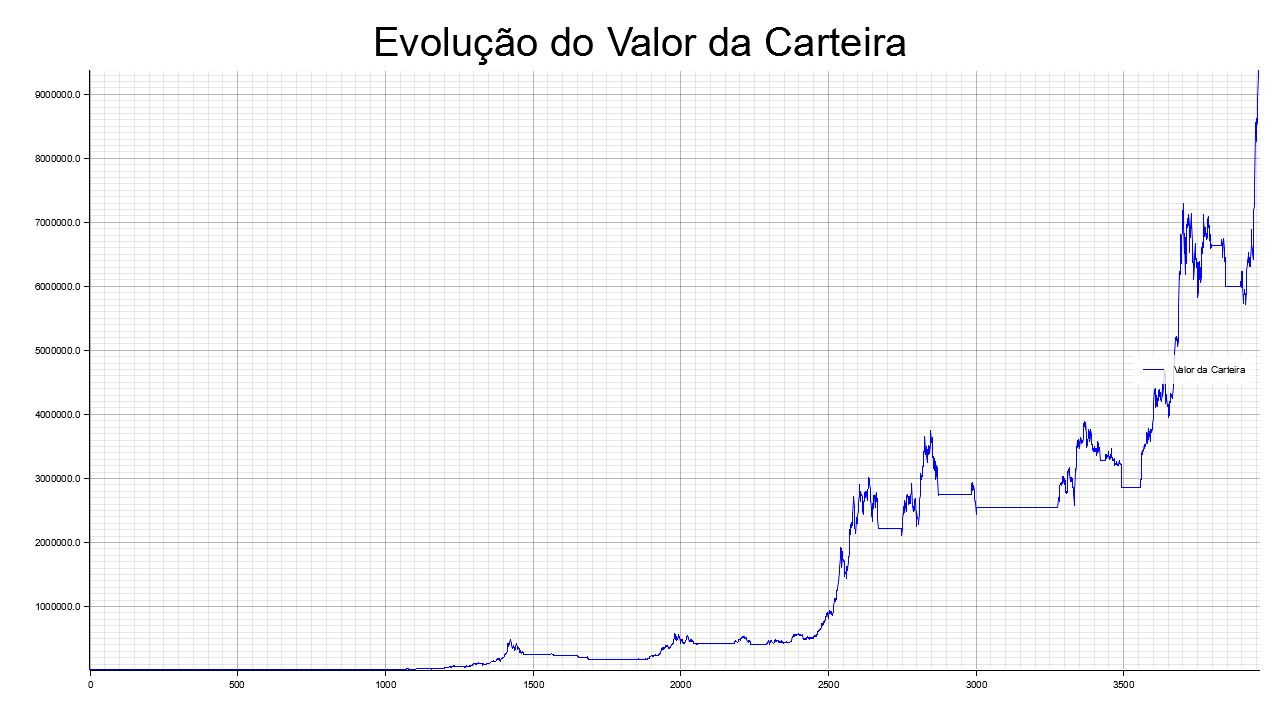
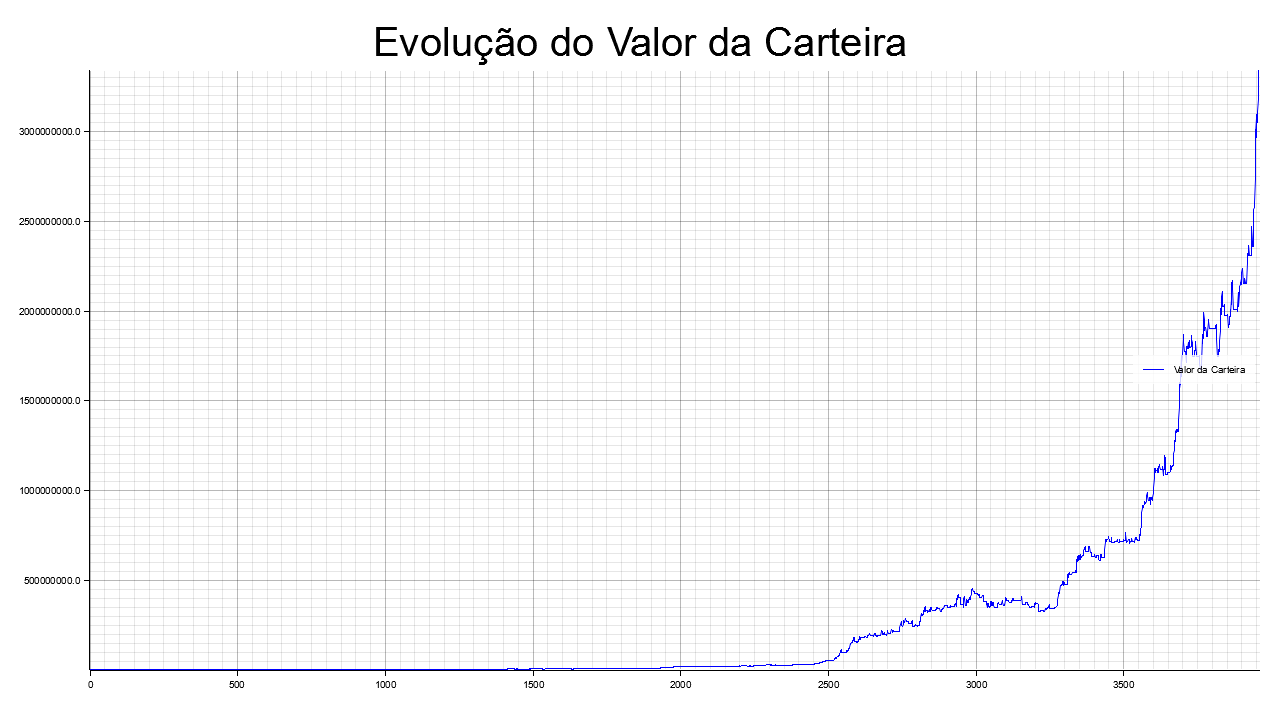
Primeira versão do código atualizado

Changed region(s): [[0.0, 0.0917, 1.0, 0.9472]]

diff --git a/src/main.rs b/src/main.rs
@@ -4,7 +4,7 @@ mod backtester;
 mod report;
 
 use data_loader::load_csv_data_from_file;
-use strategy::MovingAverageCrossover;
+use strategy::{MovingAverageCrossover, BuyAndHold, Strategy};
 use backtester::run_backtest;
 use report::{calculate_metrics, plot_portfolio_value};
 use rayon::prelude::*;
@@ -17,6 +17,15 @@ fn main() -> Result<(), Box<dyn std::error::Error>> {
     let market_data = Arc::new(load_csv_data_from_file(file_path)?);
 
     println!("Total de registros carregados: {}", market_data.len());
+
+    // Estratégia de Buy and Hold (Exemplo Adicional)
+    let buy_and_hold_strategy = BuyAndHold::new();
+    let (portfolio_bh, _) = run_backtest(&buy_and_hold_strategy, &market_data[..]);
+    let total_return_bh = (portfolio_bh.last().unwrap() - 10000.0) / 10000.0;
+    println!(
+        "\nEstratégia Buy and Hold:\nRetorno Total: {:.2}%",
+        total_return_bh * 100.0
+    );
 
     // Definir os intervalos das médias móveis
     let short_ma_range = 5..=200;
@@ -46,7 +55,7 @@ fn main() -> Result<(), Box<dyn std::error::Error>> {
     sorted_results.sort_by(|a, b| b.2.partial_cmp(&a.2).unwrap_or(Ordering::Equal));
 
     // Exibir as duas melhores combinações
-    println!("\nAs duas melhores combinações são:");
+    println!("\nAs duas melhores combinações de Moving Average Crossover são:");
     for (i, (short_ma, long_ma, total_return)) in sorted_results.iter().take(2).enumerate() {
         println!(
             "{}º: Short MA: {}, Long MA: {}, Retorno Total: {:.2}%",
@@ -80,4 +89,3 @@ fn main() -> Result<(), Box<dyn std::error::Error>> {
 
     Ok(())
 }
-

diff --git a/src/strategy/mod.rs b/src/strategy/mod.rs
@@ -2,6 +2,12 @@ pub mod indicators;
 
 use crate::data_loader::MarketData;
 
+/// Define o comportamento comum para todas as estratégias
+pub trait Strategy {
+    fn generate_signals(&self, market_data: &[MarketData]) -> Vec<Signal>;
+}
+
+/// Estratégia de Moving Average Crossover
 pub struct MovingAverageCrossover {
     pub short_window: usize,
     pub long_window: usize,
@@ -14,8 +20,11 @@ impl MovingAverageCrossover {
             long_window,
         }
     }
+}
 
-    pub fn generate_signals(&self, market_data: &[MarketData]) -> Vec<Signal> {
+/// Implementa o trait Strategy para Moving Average Crossover
+impl Strategy for MovingAverageCrossover {
+    fn generate_signals(&self, market_data: &[MarketData]) -> Vec<Signal> {
         let short_ma = indicators::moving_average(market_data, self.short_window);
         let long_ma = indicators::moving_average(market_data, self.long_window);
 
@@ -42,6 +51,26 @@ impl MovingAverageCrossover {
     }
 }
 
+/// Estratégia de Buy and Hold
+pub struct BuyAndHold;
+
+impl BuyAndHold {
+    pub fn new() -> Self {
+        Self {}
+    }
+}
+
+/// Implementa o trait Strategy para Buy and Hold
+impl Strategy for BuyAndHold {
+    fn generate_signals(&self, market_data: &[MarketData]) -> Vec<Signal> {
+        // Apenas compra no início e mantém posição
+        let mut signals = vec![Signal::Buy];
+        signals.extend(vec![Signal::Hold; market_data.len() - 1]);
+        signals
+    }
+}
+
+/// Enum que representa os sinais de compra, venda ou manutenção
 #[derive(Debug, PartialEq, Copy, Clone)]
 pub enum Signal {
     Buy,

diff --git a/src/backtester/mod.rs b/src/backtester/mod.rs
@@ -1,8 +1,8 @@
-use crate::strategy::{MovingAverageCrossover, Signal};
 use crate::data_loader::MarketData;
+use crate::strategy::{Signal, Strategy};
 
-pub fn run_backtest(
-    strategy: &MovingAverageCrossover,
+pub fn run_backtest<S: Strategy>(
+    strategy: &S,
     market_data: &[MarketData],
 ) -> (Vec<f64>, Vec<Signal>) {
     let signals = strategy.generate_signals(market_data);
@@ -12,7 +12,7 @@ pub fn run_backtest(
     let mut portfolio_values = Vec::new();
 
     for (i, signal) in signals.iter().enumerate() {
-        let price = market_data[i + 1].price.unwrap_or(0.0);
+        let price = market_data[i].price.unwrap_or(0.0);
 
         match signal {
             Signal::Buy => {
@@ -34,6 +34,5 @@ pub fn run_backtest(
         portfolio_values.push(total_value);
     }
 
-    // Retornar os valores da carteira e os sinais
     (portfolio_values, signals)
 }
